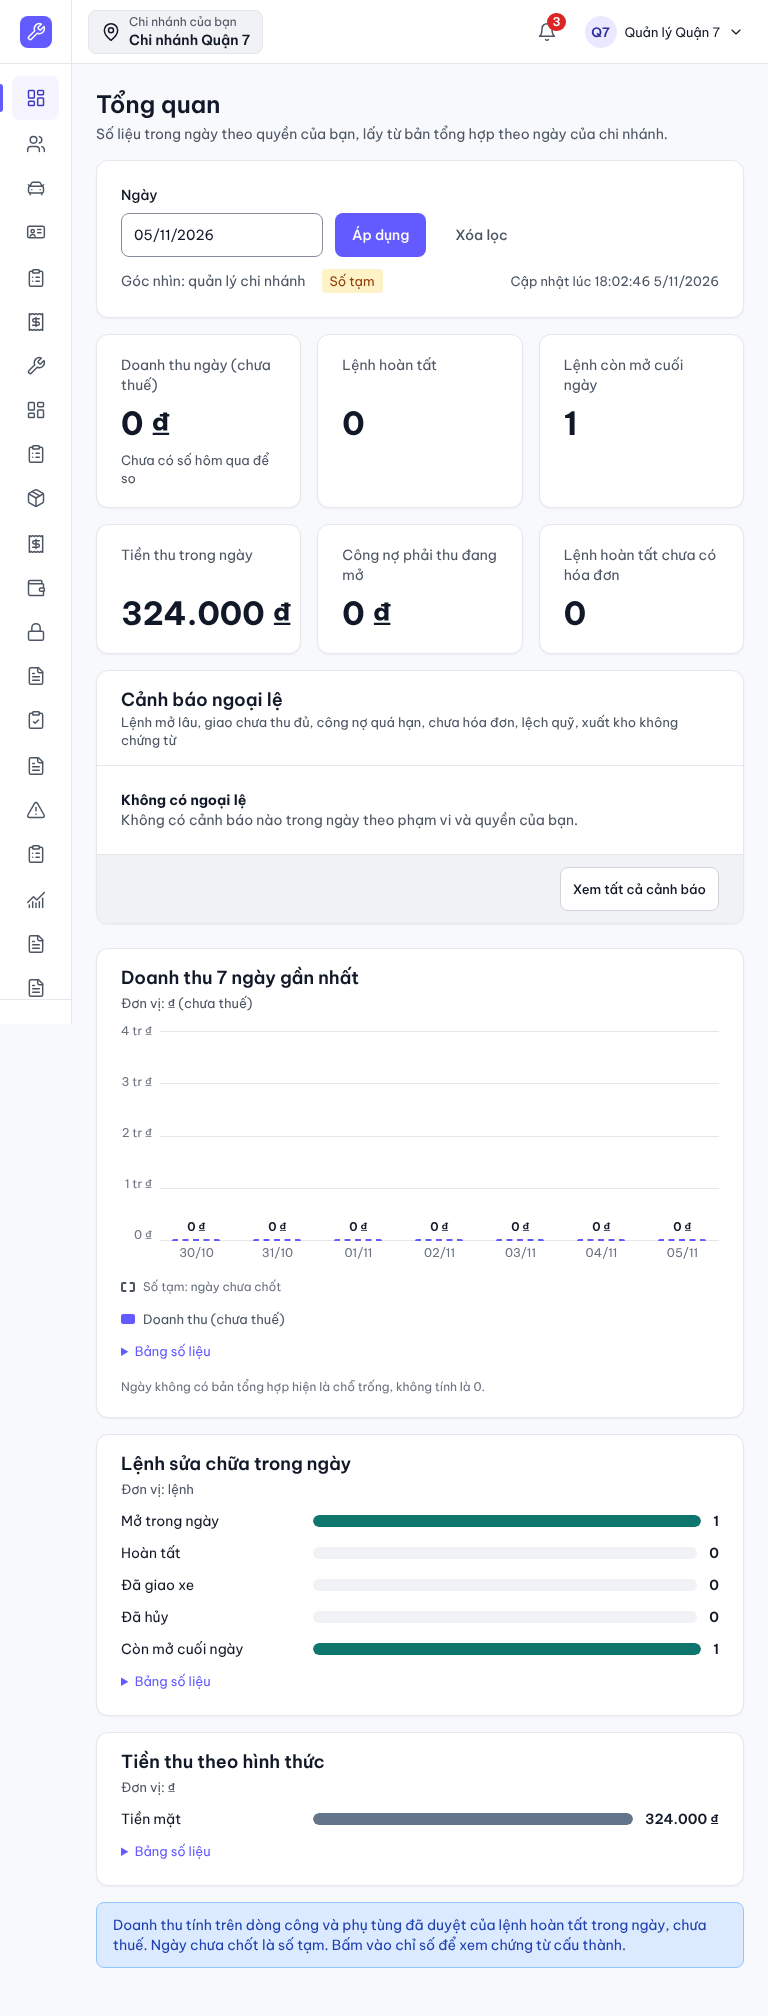
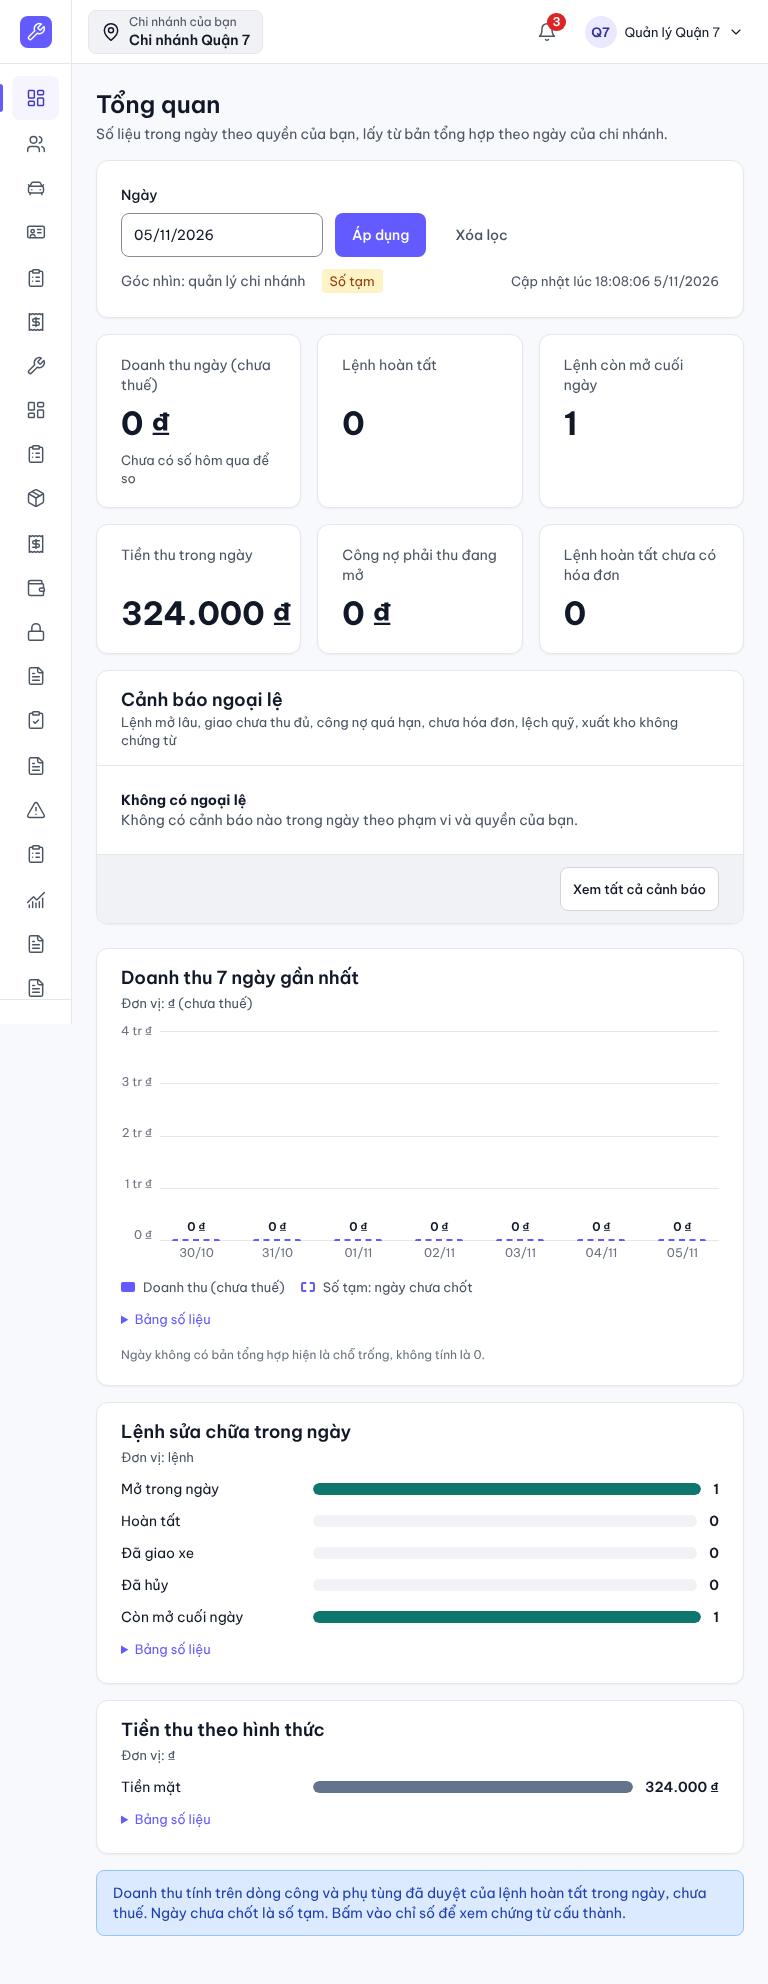
fix(ui): merge chart legend, day tooltips, dark-theme contrast test for the home dashboard
Claude-Session: https://claude.ai/code/session_01EqYbDeaMCz4Stmq5jqEEUb

diff --git a/src/ui/components/Charts.tsx b/src/ui/components/Charts.tsx
@@ -22,7 +22,7 @@ function ChartFrame(props: {
   sub?: string;
   tableLabel: string;
   table: ReactNode;
-  legend?: { name: string; series: number }[];
+  legend?: { name: string; series: number; prov?: boolean }[];
   foot?: string;
   testId?: string;
   children: ReactNode;
@@ -43,7 +43,10 @@ function ChartFrame(props: {
         <ul className="dsh-chart__legend">
           {props.legend.map((l) => (
             <li key={l.name}>
-              <span className={`dsh-sw dsh-s${l.series}`} aria-hidden="true" />
+              <span
+                className={`dsh-sw ${l.prov ? 'dsh-sw--prov' : `dsh-s${l.series}`}`}
+                aria-hidden="true"
+              />
               {l.name}
             </li>
           ))}
@@ -108,6 +111,7 @@ export function ColumnChart(props: {
   const max = Math.max(0, ...props.points.map((p) => p.value ?? 0));
   const top = max > 0 || !props.emptyTop ? niceScale(max).top : props.emptyTop;
   const axis = props.axisFormat ?? props.format;
+  const hasProv = props.points.some((p) => p.provisional);
   const ticks = [0, 1, 2, 3, 4].map((i) => i * (top / 4));
   return (
     <ChartFrame
@@ -116,7 +120,12 @@ export function ColumnChart(props: {
       unit={props.unit}
       {...(props.sub ? { sub: props.sub } : {})}
       tableLabel={props.tableLabel}
-      legend={[{ name: props.valueName, series: 1 }]}
+      legend={[
+        { name: props.valueName, series: 1 },
+        ...(hasProv && props.provisionalNote
+          ? [{ name: props.provisionalNote, series: 1, prov: true }]
+          : []),
+      ]}
       {...(props.foot ? { foot: props.foot } : {})}
       {...(props.testId ? { testId: props.testId } : {})}
       table={
@@ -147,7 +156,14 @@ export function ColumnChart(props: {
           </div>
           <ul className="dsh-cols-chart__bars">
             {props.points.map((p) => (
-              <li key={p.label}>
+              <li
+                key={p.label}
+                title={
+                  p.value === null
+                    ? `${p.label}: ${props.noDataLabel}`
+                    : `${p.label}: ${props.format(p.value)}`
+                }
+              >
                 <span className="dsh-cols-chart__col">
                   {p.value === null ? (
                     <span className="dsh-cols-chart__none">{props.noDataLabel}</span>
@@ -167,11 +183,6 @@ export function ColumnChart(props: {
           </ul>
         </div>
       </div>
-      {props.points.some((p) => p.provisional) && props.provisionalNote ? (
-        <p className="dsh-chart__foot">
-          <span className="dsh-sw dsh-sw--prov" aria-hidden="true" /> {props.provisionalNote}
-        </p>
-      ) : null}
     </ChartFrame>
   );
 }

diff --git a/e2e/dashboard-home.spec.ts b/e2e/dashboard-home.spec.ts
@@ -77,6 +77,26 @@ test.describe('home dashboard (/)', () => {
     }
   });
 
+  test('manager: dark theme keeps WCAG 2.2 AA contrast on every card and chart', async ({
+    browser,
+  }) => {
+    test.setTimeout(120_000);
+    const ql = await as(browser, 'ql.q7');
+    try {
+      await ql.page.emulateMedia({ reducedMotion: 'reduce' });
+      await post(ql.page.request, '/api/v1/rpt/jobs/run-due', {});
+      await ql.page.setViewportSize({ width: 1280, height: 900 });
+      await ql.page.goto('/');
+      await ql.page.evaluate(() => document.documentElement.setAttribute('data-theme', 'dark'));
+      await expect(ql.page.getByTestId('chart-trend')).toBeVisible();
+      expect(serious(await axe(ql.page))).toEqual([]);
+      if (shots)
+        await ql.page.screenshot({ path: `${shots}/home-manager-dark.png`, fullPage: true });
+    } finally {
+      await ql.ctx.close();
+    }
+  });
+
   test('cashier: money cards only; no revenue card or revenue chart reaches the page (cut on the server)', async ({
     browser,
   }) => {

diff --git a/src/app/styles/dashboard.css b/src/app/styles/dashboard.css
@@ -174,7 +174,7 @@ a.dsh-row:hover {
 }
 .dsh-sw--prov {
   background: var(--color-surface);
-  border: 2px dashed var(--color-text-secondary);
+  border: 2px dashed var(--chart-series-1);
 }
 .dsh-s1 {
   background: var(--chart-series-1);
